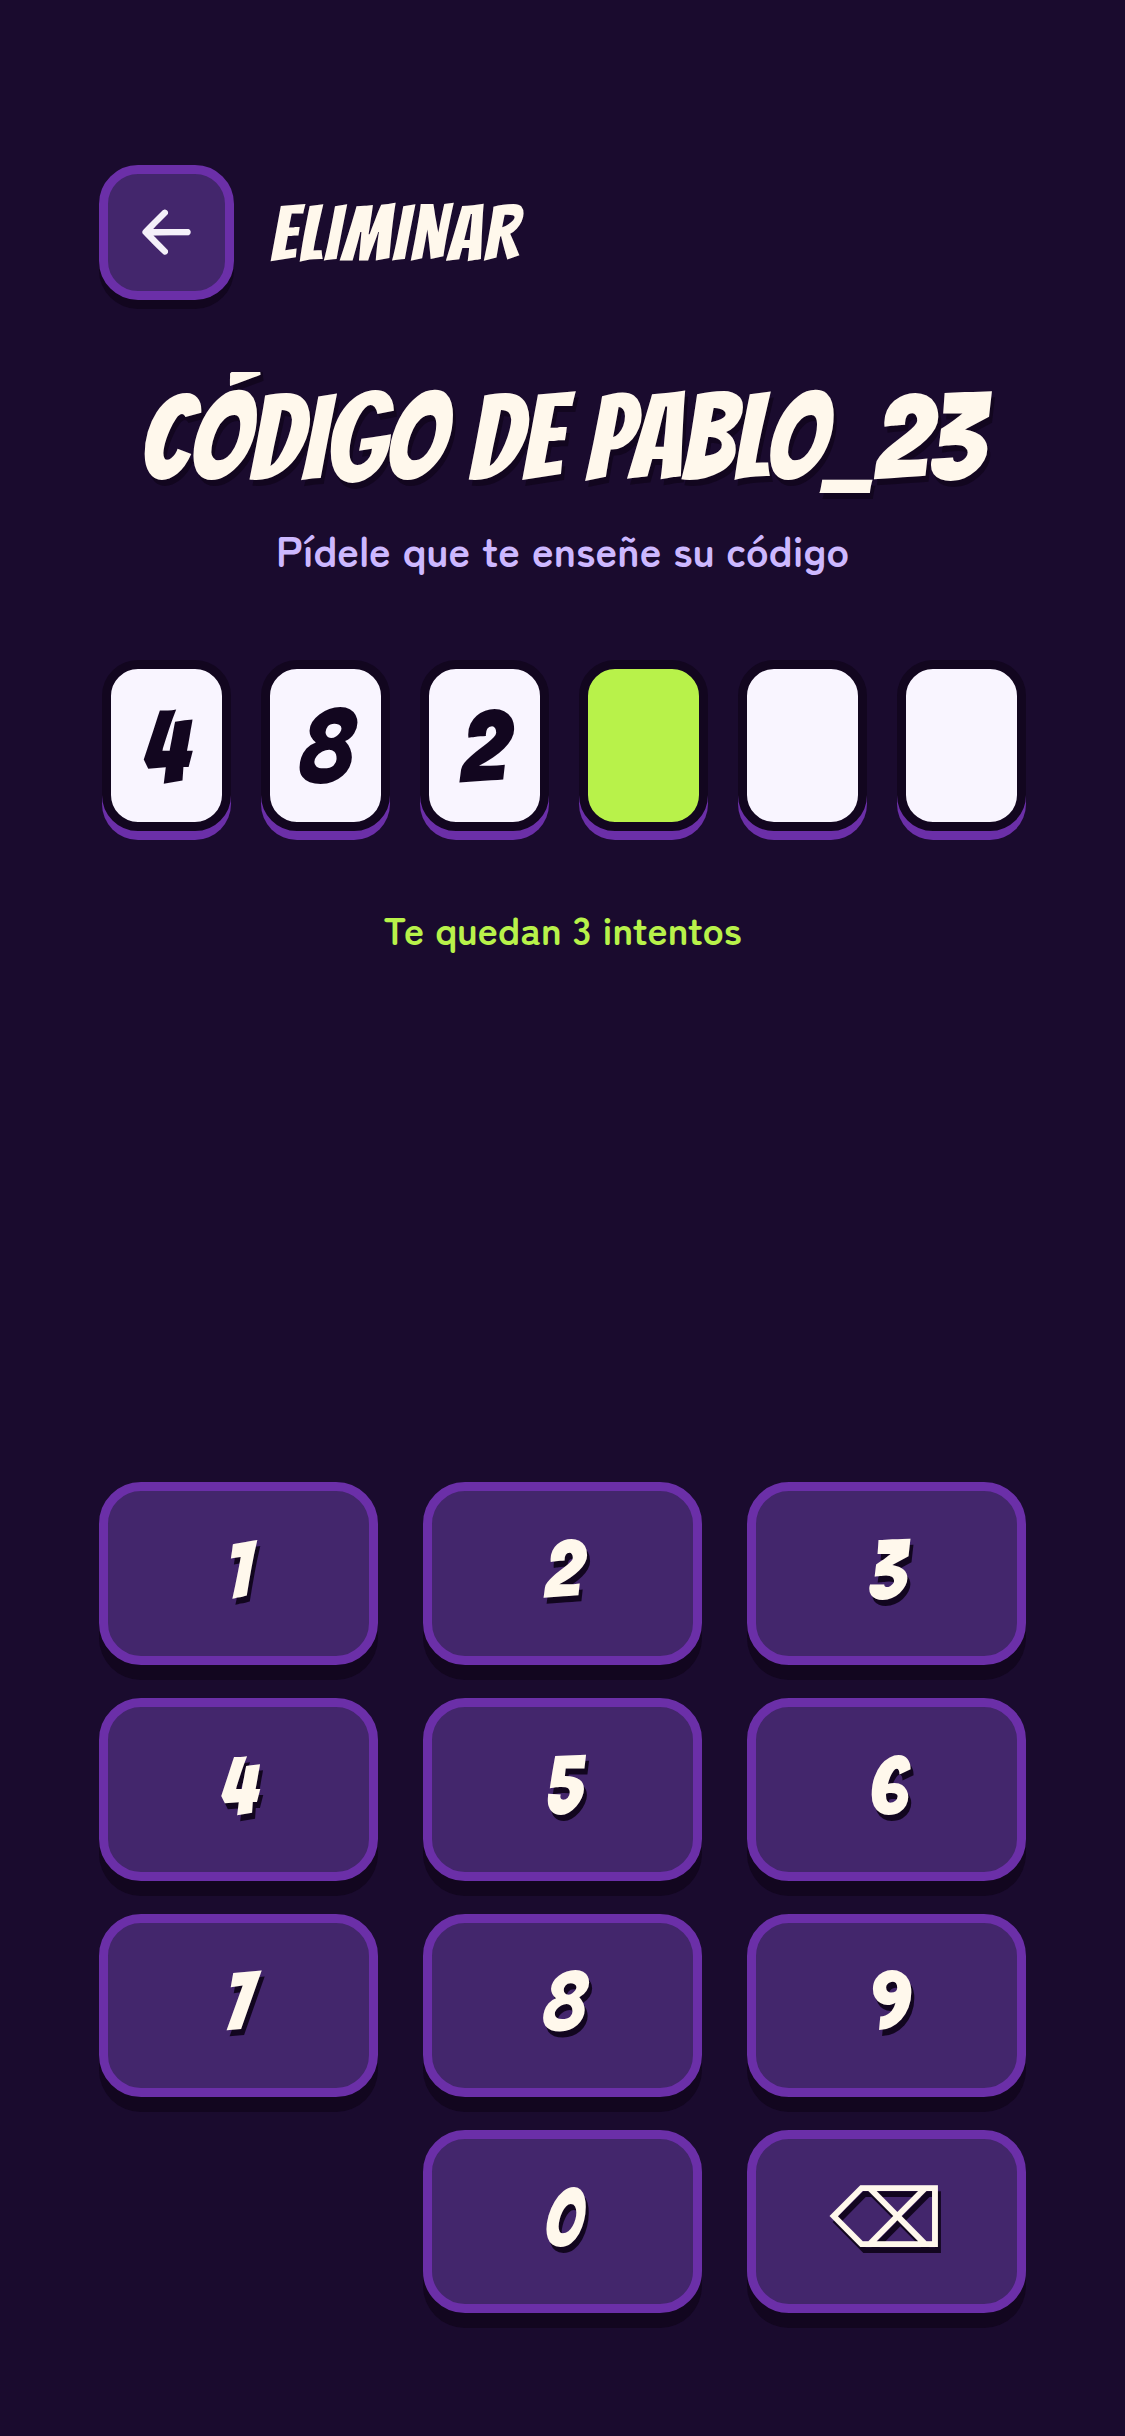
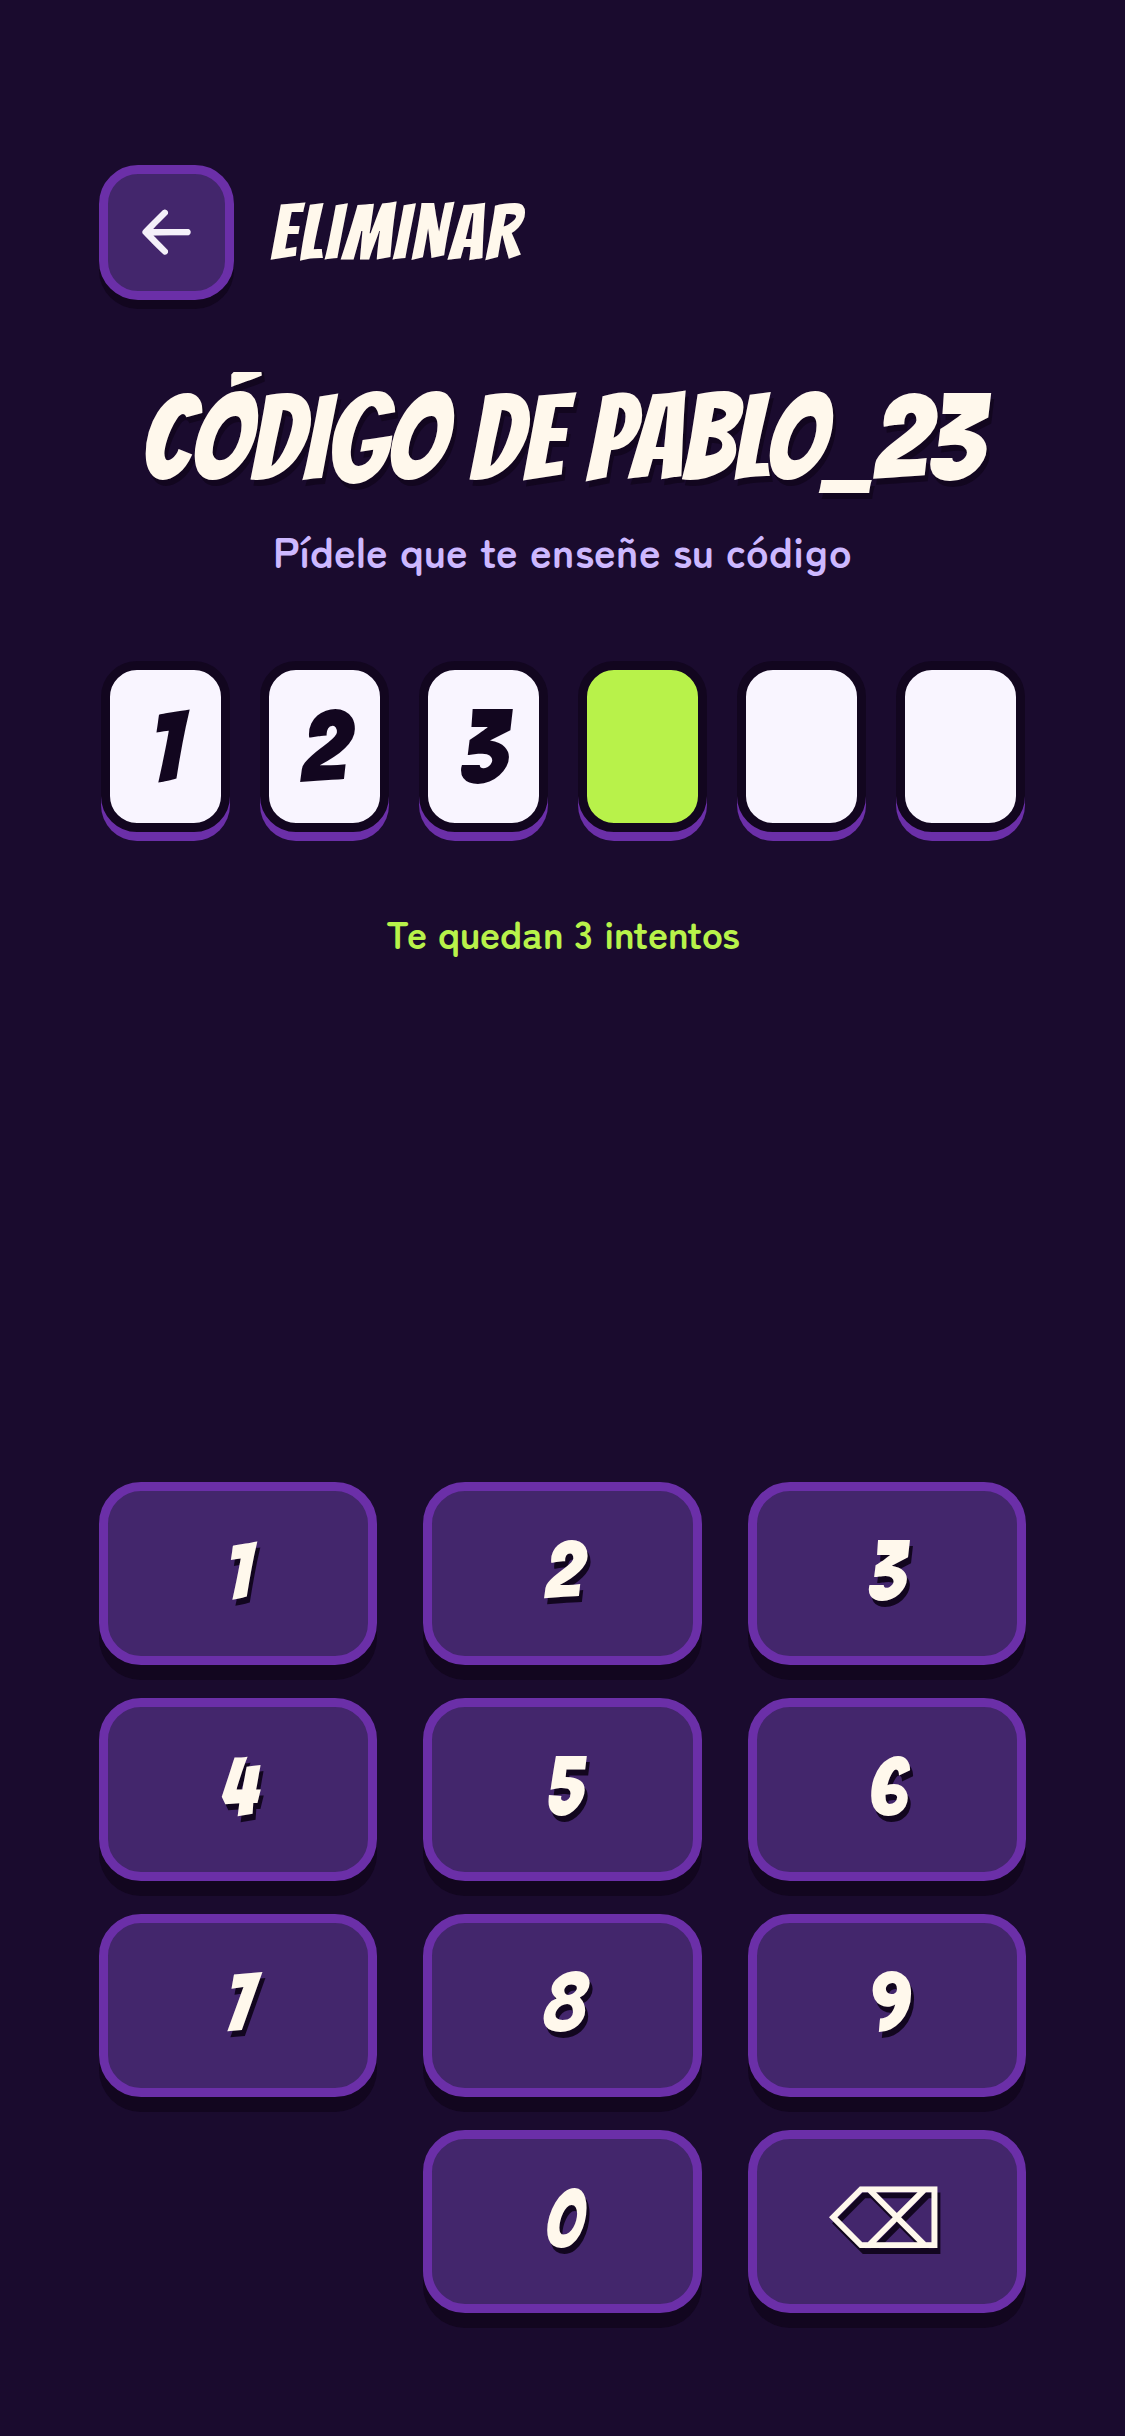
Tarea #214: 7b.4 Manual de los intentos y el bloqueo

diff --git a/docs/manual-usuario/README.md b/docs/manual-usuario/README.md
@@ -180,9 +180,22 @@ Si tu cazador cumple su misión contigo, gira el móvil hacia él para que vea t
 
 Si el código no es el de tu objetivo, o ya ha caducado, la app lo dice, lo borra y puedes volver a escribirlo. Si el código acaba de cambiar, el anterior todavía vale durante 15 segundos.
 
-<img src="img/eliminar-teclado.png" alt="Teclado de «Eliminar» con tres dígitos escritos" width="250"> <img src="img/eliminar-error.png" alt="«El código no es el de tu objetivo»" width="250">
+<img src="img/eliminar-teclado.png" alt="Teclado de «Eliminar» con tres dígitos escritos y tres intentos" width="250"> <img src="img/eliminar-error.png" alt="«El código no es el de tu objetivo» y dos intentos" width="250">
 
-### 6.3 Heredas su objetivo y su misión
+### 6.3 Intentos y bloqueo
+
+Tienes 3 intentos seguidos para escribir el código de tu objetivo. Debajo de las casillas, la app dice cuántos te quedan. Cuenta como fallo cualquier código que no valga:
+
+- uno de tu objetivo que ya ha caducado («El código ha caducado»);
+- el de otro jugador, o el de alguien que ya está eliminado («El código no es el de tu objetivo»).
+
+Al tercer fallo seguido salen «Intentos bloqueados» y una cuenta atrás: no puedes escribir hasta que cambie el código, como mucho 60 segundos. Después vuelves a tener 3 intentos, y cuando eliminas a tu objetivo también se reinician. Los intentos que te quedan y el bloqueo se mantienen aunque salgas de «Eliminar» y vuelvas a entrar.
+
+<img src="img/eliminar-bloqueado.png" alt="«Intentos bloqueados» con la cuenta atrás" width="250">
+
+Si dos eliminaciones de la misma cadena llegan a la vez, por ejemplo tú eliminas a tu objetivo justo cuando tu cazador te elimina a ti, vale la que GhostMark registra primero. Si es la de tu cazador, la tuya no cuenta: la app dice «El jugador está eliminado» y, al volver a tu carta, sale «Te han cazado». Si es la tuya, valen las dos: heredas el objetivo de tu víctima y después tu cazador te elimina.
+
+### 6.4 Heredas su objetivo y su misión
 
 Con el código correcto sale «¡Eliminado!»: tu objetivo queda fuera de la partida y se te suma una eliminación. Heredas su objetivo y su misión, así que la cadena sigue cerrada: cuando solo quedan dos jugadores, cada uno es el objetivo del otro.
 
@@ -190,13 +203,13 @@ Pulsa «Ver mi nueva carta». La carta se gira sola una vez para enseñarte tu n
 
 <img src="img/eliminar-acierto.png" alt="«¡Eliminado!» con el objetivo heredado" width="250"> <img src="img/eliminar-carta-heredada.png" alt="La carta enseña el nuevo objetivo y la nueva misión" width="250">
 
-### 6.4 Te han cazado
+### 6.5 Te han cazado
 
 Si te eliminan, la primera vez que abres tu carta sale «Te han cazado». Pulsa «Cerrar». Desde entonces eres espectador: tu carta queda en gris, sin objetivo ni misión, y ya no tienes código ni puedes eliminar. Puedes seguir la partida en Feed y en Partida hasta el final.
 
 <img src="img/cazado.png" alt="«Te han cazado»" width="250"> <img src="img/cazado-espectador.png" alt="Carta de espectador" width="250">
 
-### 6.5 El feed
+### 6.6 El feed
 
 La pestaña Feed, en la carta y en Partida, lista las eliminaciones de la partida, de la más reciente a la más antigua, con su hora: «Pablo_23 fue eliminado». Nunca dice quién eliminó a quién. Si el eliminado borró su cuenta, pone «Una cuenta eliminada fue eliminada». Lo ven todos los jugadores, vivos o eliminados, y el máster, aunque no juegue.
 
